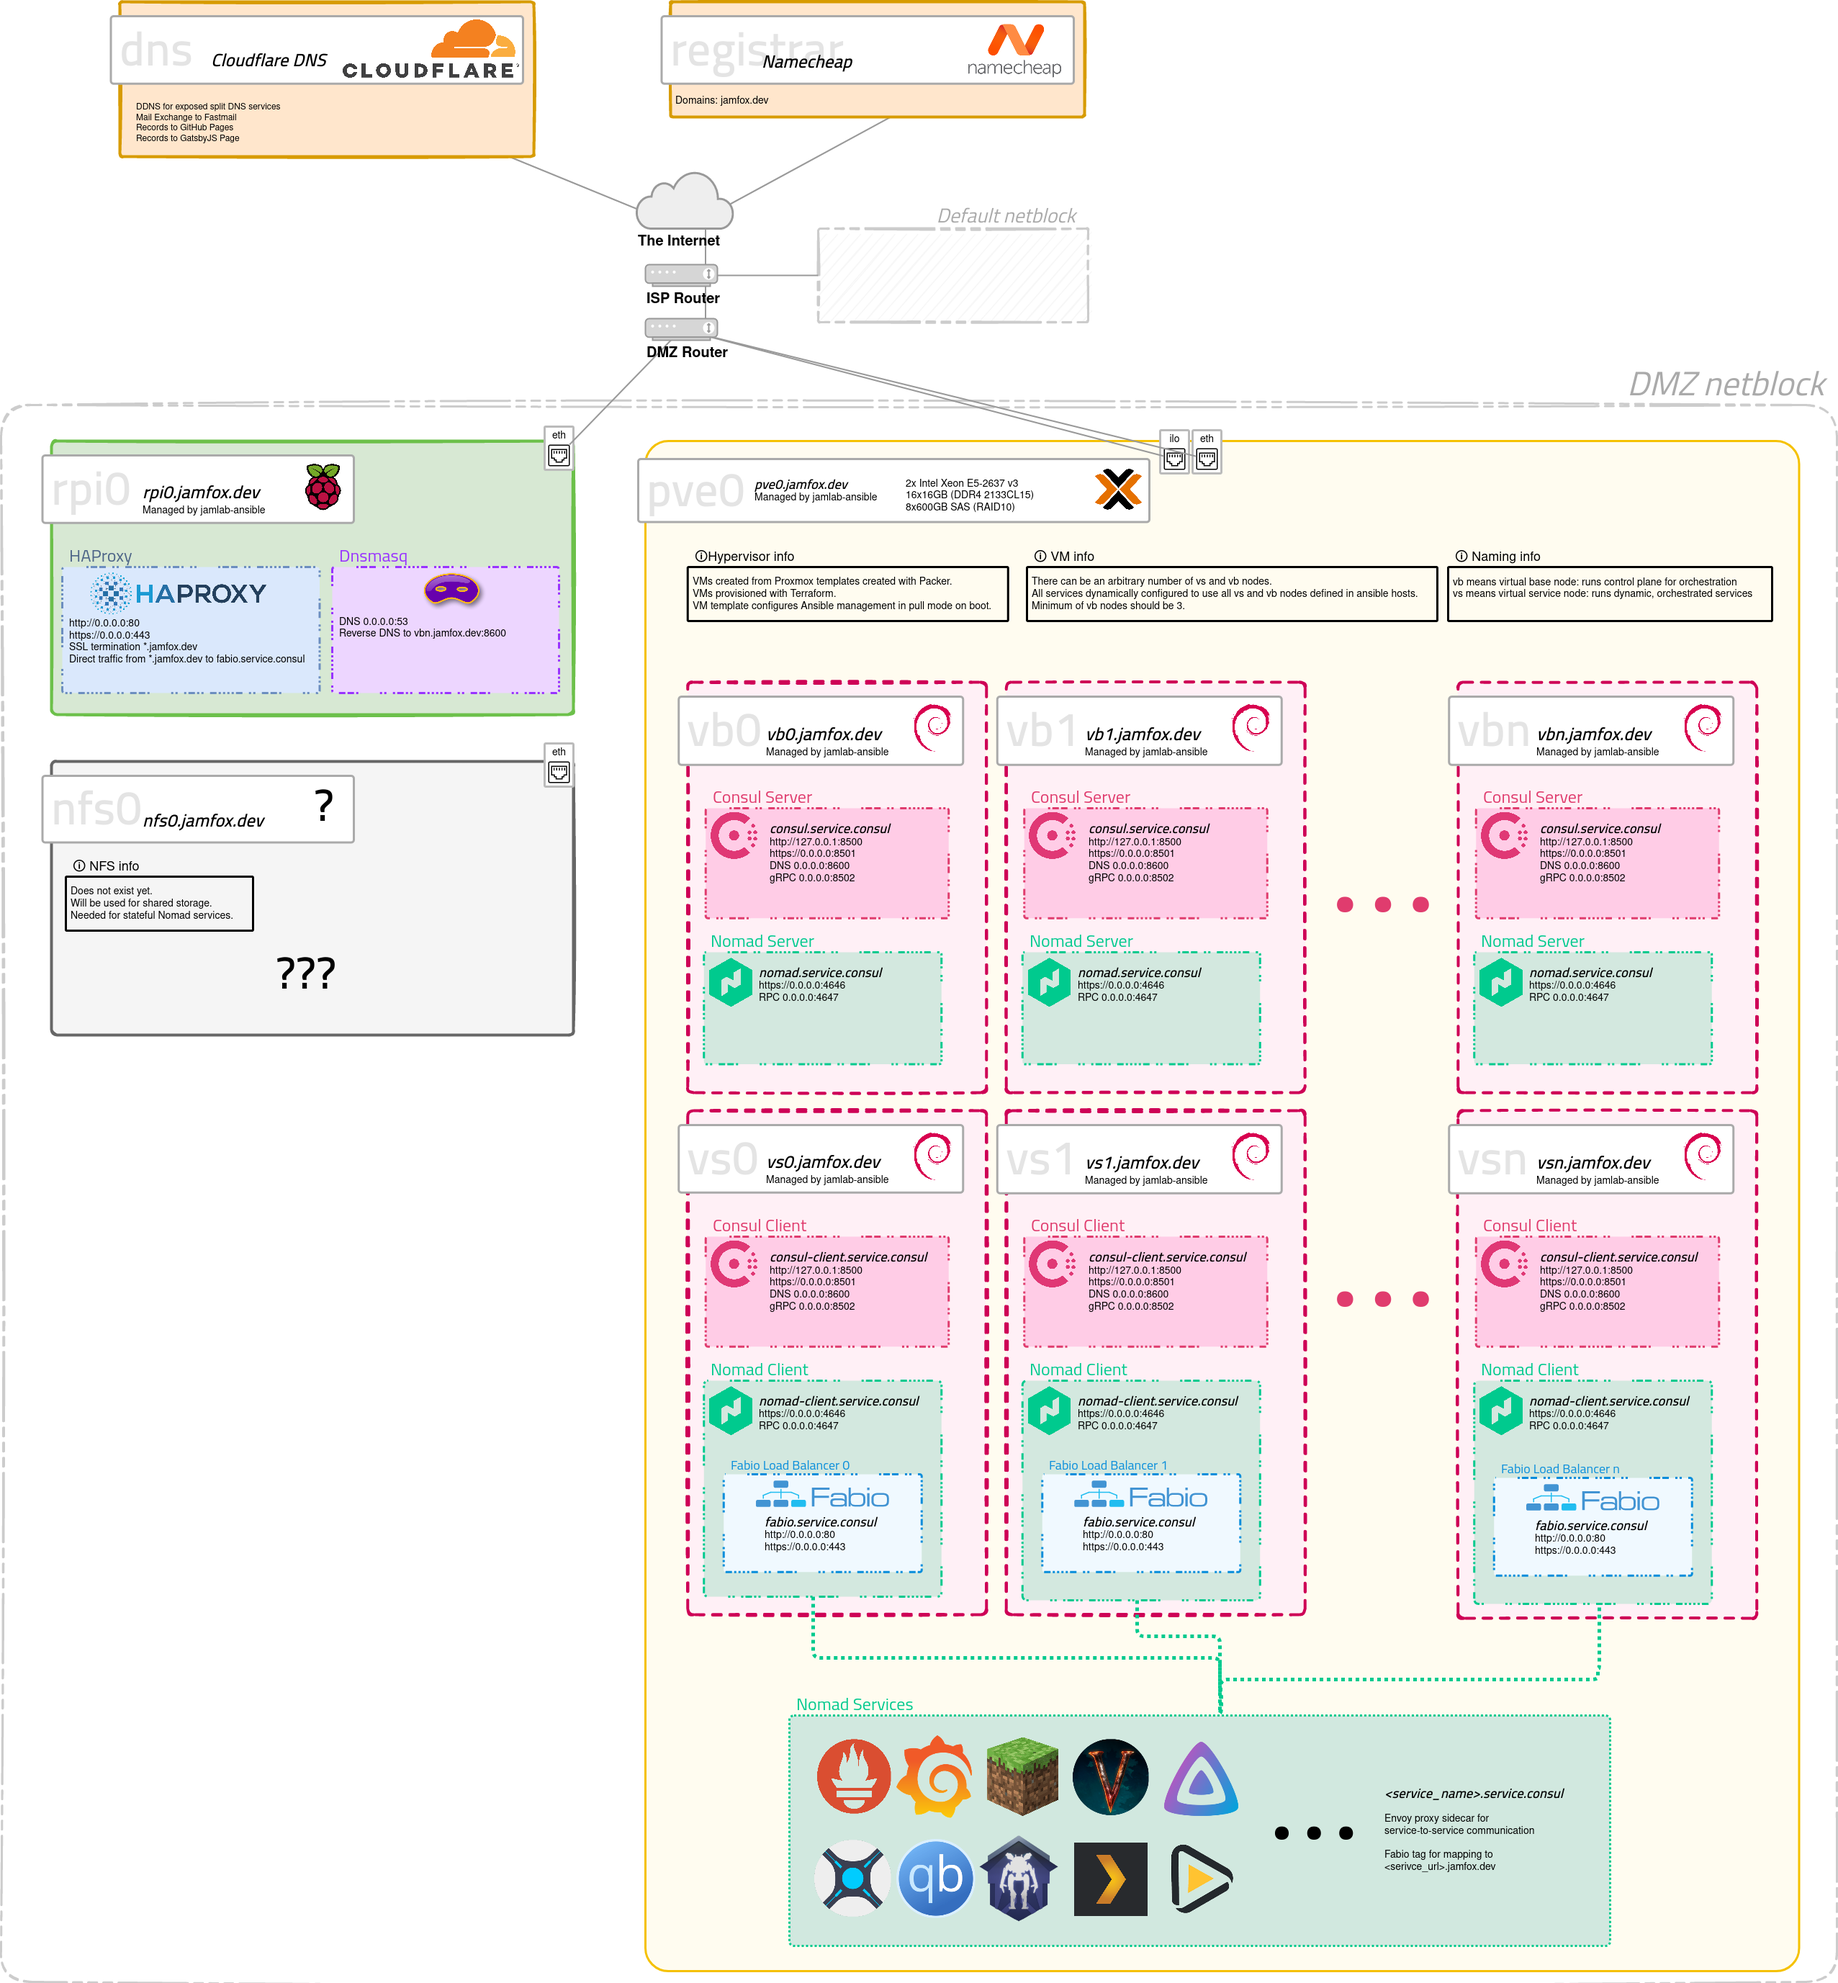
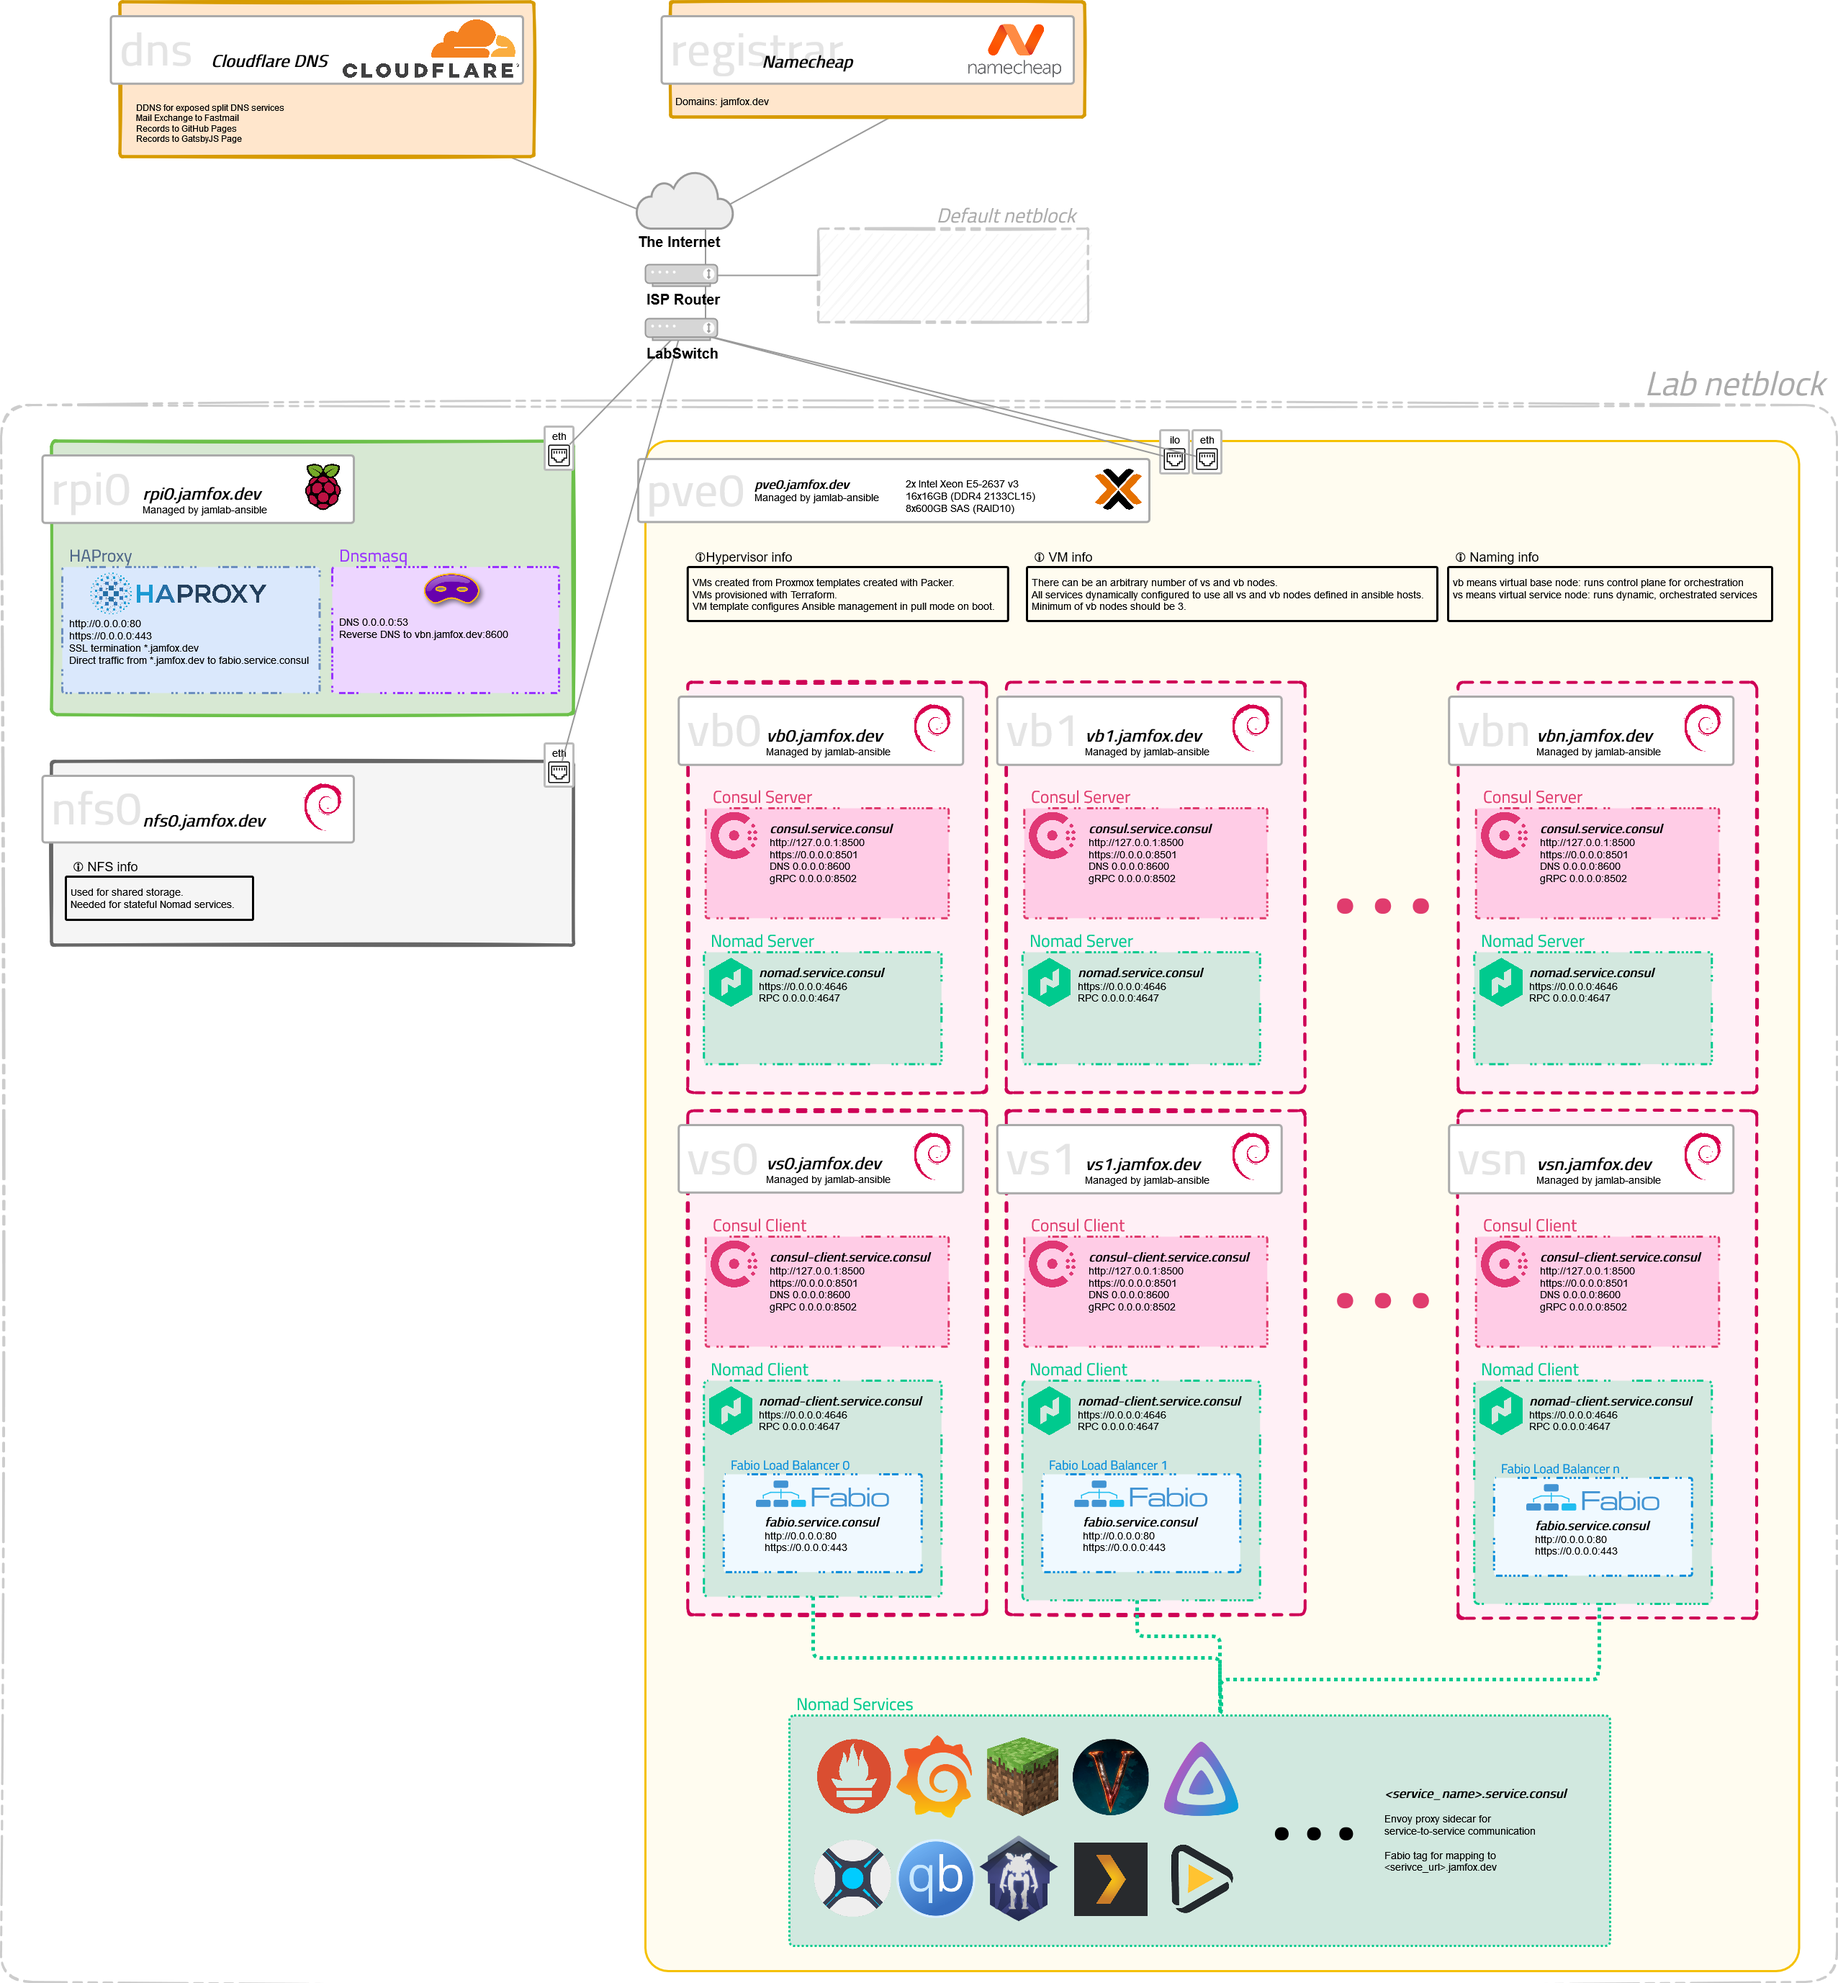
homelab: update diagram

diff --git a/docs/content/homelab/index.md b/docs/content/homelab/index.md
@@ -12,11 +12,11 @@ Anything directly related to the homelab infrastructure is documented in this se
 
 ## Architecture
 
-This section describes the JamLab architecture and the reasoning behind it.
+This section describes the JamLab architecture.
 
 ### Abstract overview
 
-JamLab is a hardware installed at JamFox's home, the lab is behind a second router that is connected to the NAT gateway router with a dynamic IP and is managed by one or more [Proxmox Virtual Environment](https://www.proxmox.com/en/proxmox-ve) bare metal hypervisor hosts with a heap memory and CPU resources for running virtual machines. Internal DNS is provided by another low-power always-on bare metal host, in this case a Raspberry Pi. All bare metal hosts are configured using [Red Hat Ansible](https://www.ansible.com/). Secrets are handled by [Ansible Vault](https://docs.ansible.com/ansible/latest/cli/ansible-vault.html) and [Mozilla SOPS](https://github.com/mozilla/sops). Hypervisor hosts run virtual machines. Configured virtual machine templates are built with [Hashicorp Packer](https://www.packer.io/) using Ansible and provisioned also with Ansible using [Hashicorp Terraform](https://www.terraform.io/) and configured by Ansible post-provision. Virtual machines fall into two groups: base infrastructure nodes (called `vb` nodes) and service infrastructure nodes (called `vs` nodes). Base infrastructure nodes run [Hashicorp Consul service discovery](https://www.consul.io/), [Hashicorp Nomad orchestration servers](https://www.hashicorp.com/products/nomad). Service infrastructure nodes use Nomad orchestration clients to run any services.
+JamLab is a hardware installed at JamFox's home, the lab is behind switch that is connected to the NAT gateway router with a dynamic IP and is managed by one or more [Proxmox Virtual Environment](https://www.proxmox.com/en/proxmox-ve) bare metal hypervisor hosts with a heap memory and CPU resources for running virtual machines. Internal DNS is provided by another low-power always-on bare metal host, in this case a Raspberry Pi. All bare metal hosts are configured using [Red Hat Ansible](https://www.ansible.com/). Secrets are handled by [Ansible Vault](https://docs.ansible.com/ansible/latest/cli/ansible-vault.html) and [Mozilla SOPS](https://github.com/mozilla/sops). Hypervisor hosts run virtual machines. Configured virtual machine templates are built with [Hashicorp Packer](https://www.packer.io/) using Ansible and provisioned also with Ansible using [Hashicorp Terraform](https://www.terraform.io/) and configured by Ansible post-provision. Virtual machines fall into two groups: base infrastructure nodes (called `vb` nodes) and service infrastructure nodes (called `vs` nodes). Base infrastructure nodes run [Hashicorp Consul service discovery](https://www.consul.io/), [Hashicorp Nomad orchestration servers](https://www.hashicorp.com/products/nomad). Service infrastructure nodes use Nomad orchestration clients to run any services.
 
 Features:
 
@@ -29,6 +29,7 @@ Features:
 - Scalable Nomad service load balancing: each `vs` node has a Fabio load balancer.
 - Consul service discovery: services with multiple instances discoverable from `<service name>.service.consul` address.
 - Consul Connect service mesh: Nomad services are able to securely communicate with each other with no plumbing configuration.
+- NFS shared storage: for general shared storage and Nomad stateful storage.
 
 JamLab repositories:
 
@@ -42,7 +43,7 @@ JamLab repositories:
 
 ## Accessing services
 
-Easiest way to explain what goes on in the JamLab is to look at the flow when a client wishes to access a service. Let's say that the client wishes to access a web server from the address `web.jamfox.dev`.
+Let's say that the client wishes to access a web server from the address `web.jamfox.dev`.
 
 If the client queries `web.jamfox.dev`:
 
